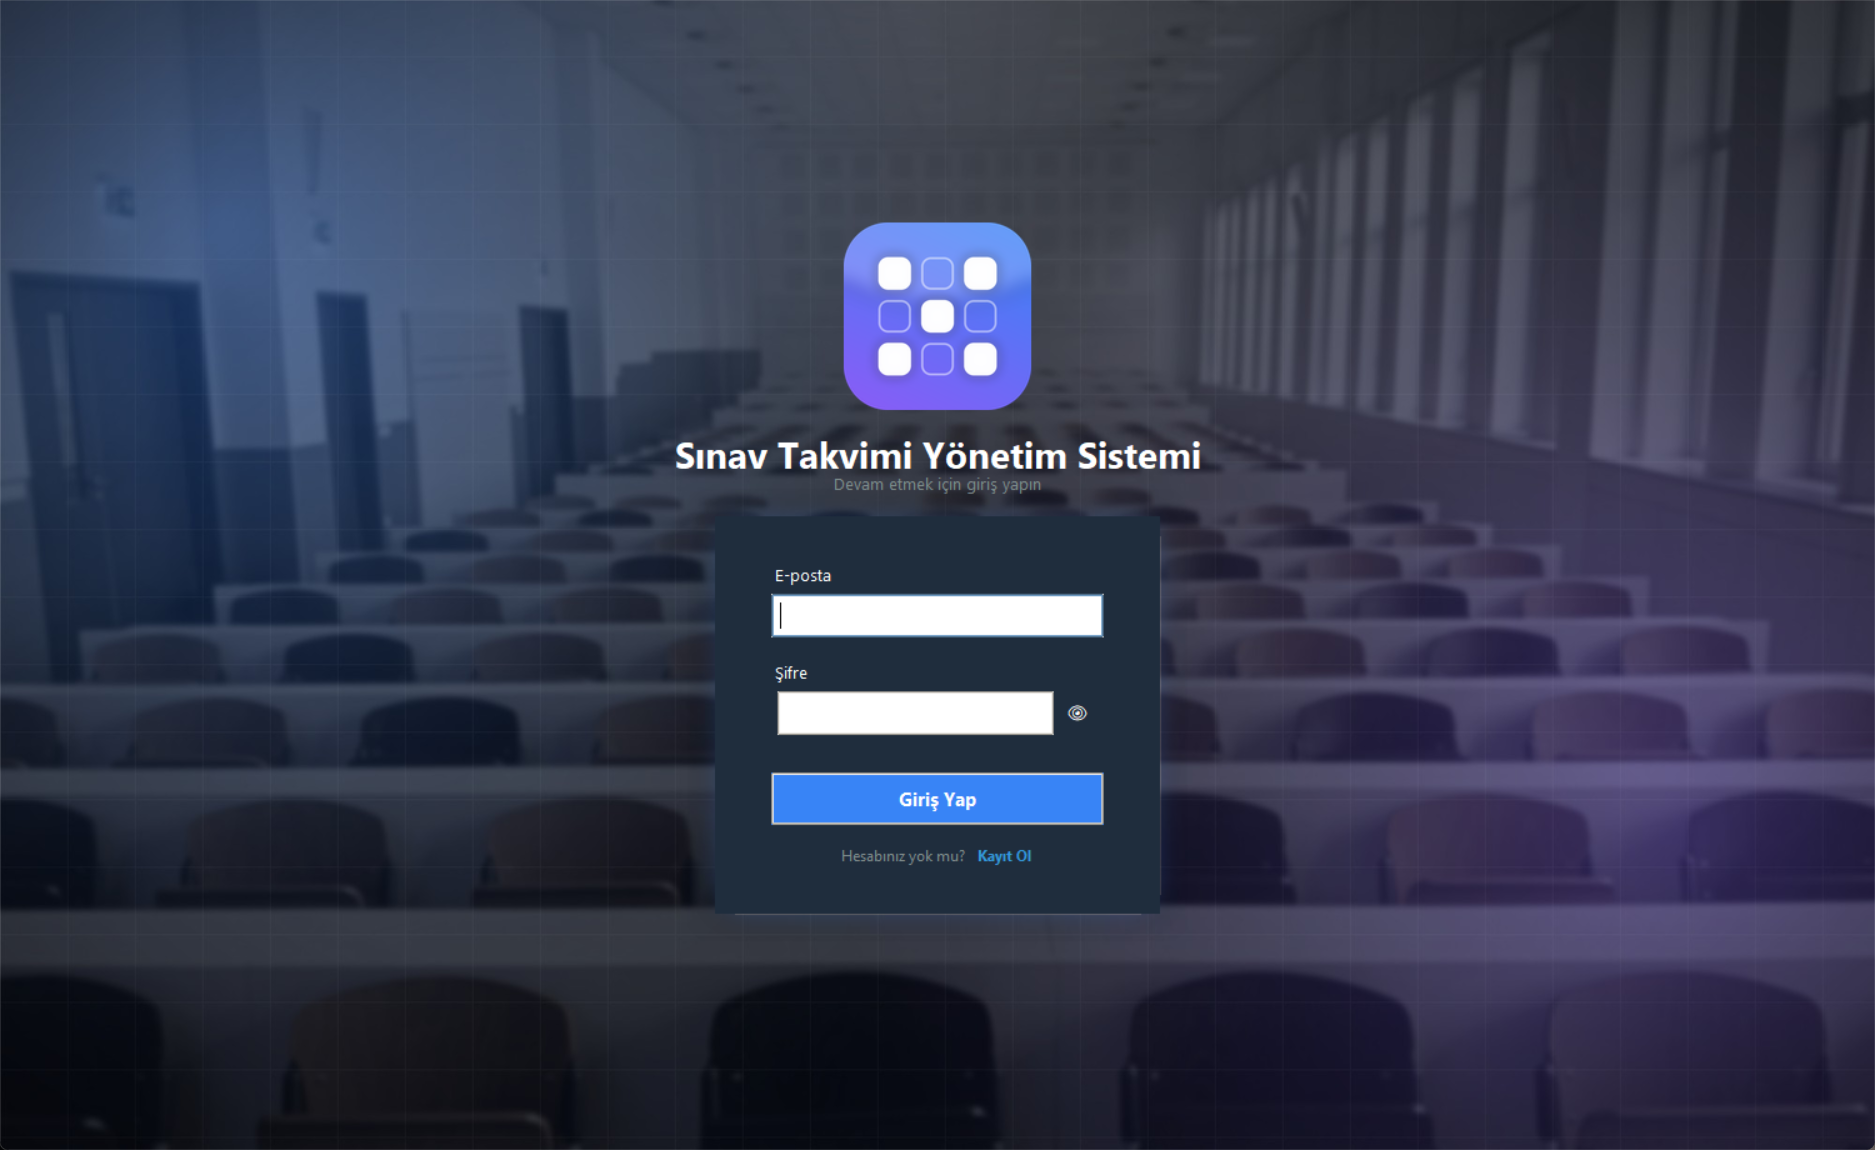
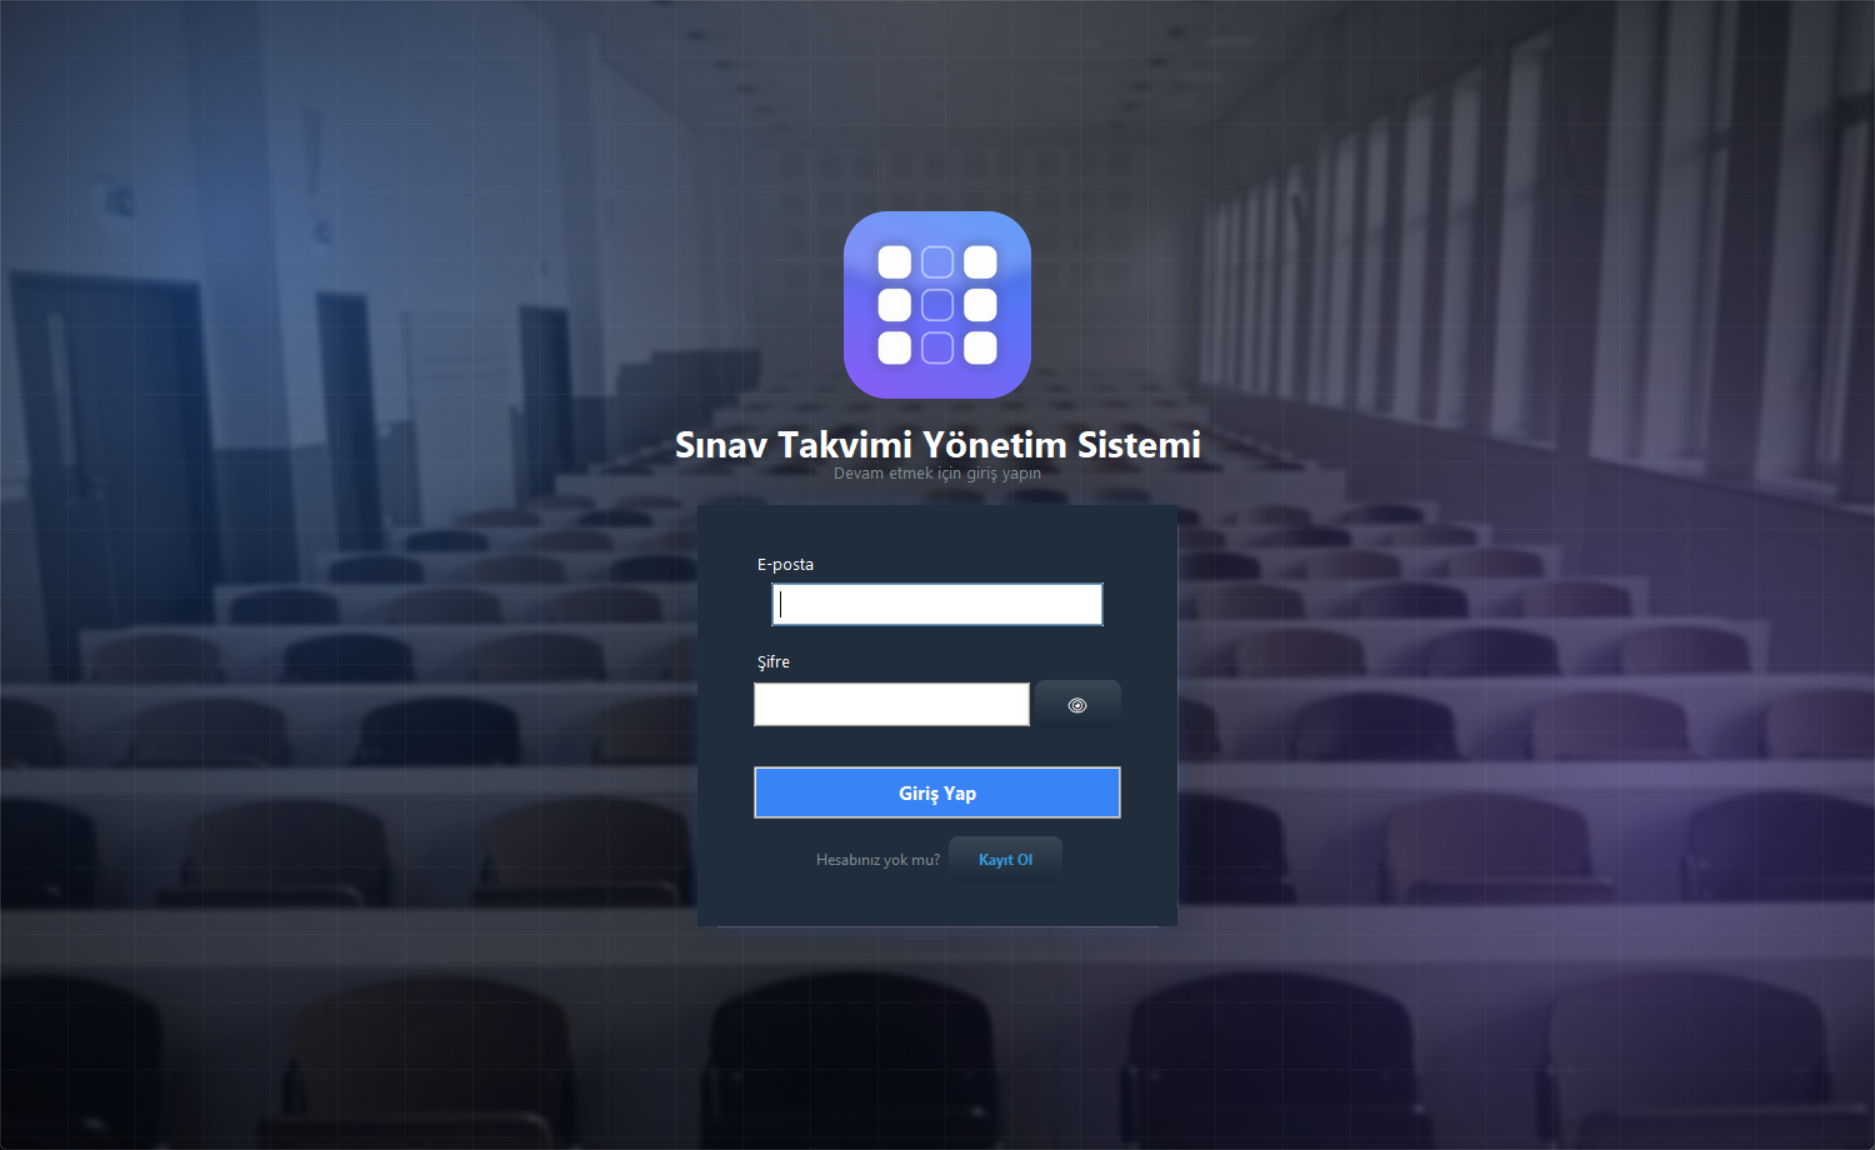
Yuvarlak butonlar, temali alt pencereler ve yenilenen ikon
Butonlar:
- Tkinter'in klasik 3B butonu yerine yuvarlak koseli, gradyanli, hover ve
  basili durumu olan buton; govde PIL ile ciziliyor, metin Tk metin ogesiyle
- tk.Button global olarak degistirildi, boylece ~30 ekranin tamami tek
  dokunusla yenilendi; text/state/bg/fg/command, invoke/cget/config destekli

Alt pencereler:
- Her Toplevel artik en altta dekoratif bir katman aciyor; pencerelerin
  arkasi bombos gri kalmiyor
- Widget'larin oturdugu ust bolge duz kaliyor, gecis asagida basliyor ki
  widget'lar arka plandan kutu gibi ayrismasin

Ikon:
- Rastgele duran dama deseni yerine anti-kopya duzenini anlatan sutun
  deseni: iki dolu sutun, ortada bos sutun

Duzeltmeler:
- Canvas.lower() canvas ogesini alcaltiyor, widget'i degil; dekor katmani
  bu yuzden ilk diyalog acilisinda TclError firlatiyordu
- numpy dogrudan kullanildigi halde requirements.txt'te yoktu

diff --git a/sinav_oturma_plani/styles.py b/sinav_oturma_plani/styles.py
@@ -3,9 +3,11 @@ import hashlib
 import os
 import tkinter as tk
 
+import tkinter.font as tkfont
+
 import bcrypt
 import numpy as np
-from PIL import Image, ImageDraw, ImageFilter
+from PIL import Image, ImageDraw, ImageFilter, ImageTk
 
 _PROJECT_ROOT = os.path.dirname(os.path.dirname(os.path.abspath(__file__)))
 _ASSETS_DIR = os.path.join(_PROJECT_ROOT, 'assets')
@@ -109,38 +111,206 @@ def apply_widget_defaults(root):
     root.option_add('*Listbox.background', COLORS['bg_card'])
 
 
-class _HoverButton(tk.Button):
-    """Üzerine gelindiğinde arka planı açılan/koyulaşan tk.Button."""
+def _shade(rgb, amount):
+    """amount > 0 açar, < 0 koyulaştırır."""
+    if amount >= 0:
+        return tuple(int(c + (255 - c) * amount) for c in rgb)
+    return tuple(max(0, int(c * (1 + amount))) for c in rgb)
+
+
+def _pill(width, height, rgb, radius, supersample=3):
+    """Üstten alta hafif gradyanlı, yuvarlak köşeli buton gövdesi."""
+    big = (width * supersample, height * supersample)
+    gradient = _diagonal_gradient(big[0], big[1], _shade(rgb, 0.12), _shade(rgb, -0.08),
+                                   angle_deg=90)
+
+    mask = Image.new('L', big, 0)
+    ImageDraw.Draw(mask).rounded_rectangle([0, 0, big[0] - 1, big[1] - 1],
+                                            radius=radius * supersample, fill=255)
+
+    img = Image.new('RGBA', big, (0, 0, 0, 0))
+    img.paste(gradient, (0, 0), mask)
+    return img.resize((width, height), Image.LANCZOS)
+
+
+class _RoundedButton(tk.Canvas):
+    """tk.Button yerine geçen, yuvarlak köşeli modern buton.
+
+    Tkinter'ın klasik butonu köşe yarıçapını ve düz tasarımı desteklemediği
+    için gövde PIL ile çizilip Canvas'a görsel olarak yerleştirilir; metin
+    Tk'nin kendi metin öğesiyle yazılır (font kalitesi bozulmasın diye).
+
+    tk.Button ile aynı şekilde kullanılabilsin diye text/command/bg/fg/font/
+    state seçeneklerini, `invoke()`, `cget()` ve `config()` çağrılarını
+    destekler. relief, bd, activebackground gibi klasik görünüm seçenekleri
+    sessizce yok sayılır."""
+
+    RADIUS = 8
+    _SWALLOWED = ('relief', 'bd', 'borderwidth', 'activebackground', 'activeforeground',
+                   'highlightthickness', 'highlightbackground', 'anchor', 'justify',
+                   'overrelief', 'default', 'takefocus')
+
+    def __init__(self, master=None, text='', command=None, bg=None, fg=None,
+                 font=None, padx=None, pady=None, width=None, height=None,
+                 state='normal', cursor='hand2', **_legacy):
+        self._text = text
+        self._command = command
+        self._fill = bg or COLORS['accent']
+        self._fg = fg or COLORS['text_light']
+        self._font = font or ('Segoe UI', 10, 'bold')
+        self._padx = 24 if padx is None else max(int(padx), 14)
+        self._pady = 11 if pady is None else max(int(pady), 8)
+        self._min_chars = width
+        self._min_lines = height
+        self._state = state
+        self._photo = None
+
+        try:
+            parent_bg = master.cget('background')
+        except Exception:
+            parent_bg = COLORS['bg_light']
+
+        box = self._measure()
+        super().__init__(master, width=box[0], height=box[1], highlightthickness=0,
+                          bd=0, bg=parent_bg, cursor='' if state == 'disabled' else cursor)
+
+        self._body = self.create_image(0, 0, anchor='nw')
+        self._label = self.create_text(box[0] // 2, box[1] // 2, text=self._text,
+                                        fill=self._fg, font=self._font)
+        self._paint()
+
+        self.bind('<Enter>', lambda _e: self._paint(hover=True))
+        self.bind('<Leave>', lambda _e: self._paint())
+        self.bind('<Button-1>', lambda _e: self._paint(press=True))
+        self.bind('<ButtonRelease-1>', self._on_release)
+
+    def _measure(self):
+        font = tkfont.Font(font=self._font)
+        line = font.metrics('linespace')
+        width = font.measure(self._text) + self._padx * 2
+        height = line + self._pady * 2
+        if self._min_chars:
+            width = max(width, int(self._min_chars) * font.measure('0') + self._padx * 2)
+        if self._min_lines:
+            height = max(height, int(self._min_lines) * line + self._pady)
+        return int(width), int(height)
+
+    def _rgb(self, color):
+        if isinstance(color, str) and color.startswith('#') and len(color) == 7:
+            return hex_to_rgb(color)
+        try:
+            return tuple(c >> 8 for c in self.winfo_rgb(color))
+        except tk.TclError:
+            return hex_to_rgb(COLORS['accent'])
+
+    def _paint(self, hover=False, press=False):
+        width, height = int(self['width']), int(self['height'])
+        rgb = self._rgb(self._fill)
+
+        if self._state == 'disabled':
+            rgb = tuple((c + b) // 2 for c, b in zip(rgb, hex_to_rgb(COLORS['bg_light'])))
+        elif press:
+            rgb = _shade(rgb, -0.16)
+        elif hover:
+            rgb = _shade(rgb, 0.14)
+
+        self._photo = ImageTk.PhotoImage(_pill(width, height, rgb, self.RADIUS))
+        self.itemconfig(self._body, image=self._photo)
+        self.tag_raise(self._label)
+
+    def _on_release(self, event):
+        self._paint(hover=True)
+        if 0 <= event.x < int(self['width']) and 0 <= event.y < int(self['height']):
+            self.invoke()
+
+    def invoke(self):
+        if self._state != 'disabled' and self._command:
+            return self._command()
+
+    def cget(self, key):
+        return {'text': self._text, 'state': self._state, 'command': self._command,
+                 'bg': self._fill, 'background': self._fill,
+                 'fg': self._fg, 'foreground': self._fg}.get(key) \
+            if key in ('text', 'state', 'command', 'bg', 'background', 'fg', 'foreground') \
+            else super().cget(key)
+
+    __getitem__ = cget
+
+    def configure(self, cnf=None, **kw):
+        resize = redraw = False
+
+        if 'text' in kw:
+            self._text = kw.pop('text')
+            resize = True
+        if 'state' in kw:
+            self._state = kw.pop('state')
+            redraw = True
+        if 'command' in kw:
+            self._command = kw.pop('command')
+        for key in ('bg', 'background'):
+            if key in kw:
+                self._fill = kw.pop(key)
+                redraw = True
+        for key in ('fg', 'foreground'):
+            if key in kw:
+                self._fg = kw.pop(key)
+                redraw = True
+        for key in self._SWALLOWED + ('padx', 'pady', 'font', 'image'):
+            kw.pop(key, None)
+
+        if resize:
+            width, height = self._measure()
+            super().configure(width=width, height=height)
+            self.coords(self._label, width // 2, height // 2)
+            self.itemconfig(self._label, text=self._text)
+        if resize or redraw:
+            self.itemconfig(self._label, fill=self._fg)
+            self._paint()
+        if cnf is not None or kw:
+            return super().configure(cnf, **kw)
+
+    config = configure
+
+
+tk.Button = _RoundedButton
+
+_WINDOW_BACKGROUND = None
+
+
+def set_window_background(source):
+    """Alt pencerelerin dekoratif arka planını belirler (görsel ya da üreteç)."""
+    global _WINDOW_BACKGROUND
+    _WINDOW_BACKGROUND = source
+
+
+class _ThemedToplevel(tk.Toplevel):
+    """Arka planı boş kalmayan Toplevel.
+
+    Pencerenin en altına, içeriğin arkasında kalan dekoratif bir katman
+    yerleştirir. Katman `place` ile konduğu için `pack`/`grid` ile eklenen
+    içeriğin yerleşimini etkilemez; içerik bittiği yerden aşağısı düz gri
+    yerine desenli görünür."""
 
     def __init__(self, master=None, **kwargs):
+        kwargs.setdefault('background', COLORS['bg_light'])
         super().__init__(master, **kwargs)
-        self.bind('<Enter>', self._on_enter, add='+')
-        self.bind('<Leave>', self._on_leave, add='+')
 
-    def _on_enter(self, event):
-        if str(self['state']) == 'disabled':
+        if _WINDOW_BACKGROUND is None:
             return
-        self._normal_bg = self.cget('background')
-        self.config(background=self._hover_color(self._normal_bg), cursor='hand2')
 
-    def _on_leave(self, event):
-        if hasattr(self, '_normal_bg'):
-            self.config(background=self._normal_bg, cursor='')
+        # Döngüsel içe aktarmayı önlemek için çağrı anında yükleniyor.
+        from .ui.background import ResponsiveBackground
 
-    def _hover_color(self, color):
-        try:
-            r, g, b = (c >> 8 for c in self.winfo_rgb(color))
-        except tk.TclError:
-            return color
-        luminance = 0.299 * r + 0.587 * g + 0.114 * b
-        if luminance > 140:
-            r, g, b = (max(0, int(c * 0.88)) for c in (r, g, b))
-        else:
-            r, g, b = (min(255, int(c + (255 - c) * 0.18)) for c in (r, g, b))
-        return f'#{r:02x}{g:02x}{b:02x}'
+        decoration = tk.Canvas(self, highlightthickness=0, bd=0, bg=COLORS['bg_light'])
+        decoration.place(x=0, y=0, relwidth=1, relheight=1)
+        # Canvas.lower() canvas öğesini alçaltır; widget'ın kendisini en alta
+        # almak için Misc.lower çağrılmalı.
+        tk.Misc.lower(decoration)
+        ResponsiveBackground(decoration, _WINDOW_BACKGROUND)
+        self._decoration = decoration
 
 
-tk.Button = _HoverButton
+tk.Toplevel = _ThemedToplevel
 
 
 GRADIENT_START = (56, 132, 246)
@@ -197,7 +367,8 @@ def generate_app_icon(size=512):
     gap = int(s * 0.055)
     cell = (s - 2 * grid_pad - (cols - 1) * gap) / cols
     seat_radius = cell * 0.30
-    dolu = {(0, 0), (0, 2), (1, 1), (2, 0), (2, 2)}
+    # Anti-kopya düzeni: bir sütun dolu, bir sütun boş.
+    dolu = {(r, c) for r in range(rows) for c in (0, 2)}
 
     glow = Image.new('RGBA', (s, s), (0, 0, 0, 0))
     glow_draw = ImageDraw.Draw(glow)
@@ -271,13 +442,15 @@ def _blend(arr, mask, color):
     return arr
 
 
-def generate_panel_background(width, height):
-    """Ana panelde içeriğin altında kalan boşluğu dolduran dekoratif katman:
-    aşağı doğru koyulaşan hafif renk geçişi ve sağ alt köşede sınav oturma
-    düzenini çağrıştıran silik koltuk ızgarası.
+def generate_panel_background(width, height, fade_power=1.6, strength=0.30):
+    """İçeriğin altında kalan boşluğu dolduran dekoratif katman: aşağı doğru
+    koyulaşan hafif renk geçişi ve sağ alt köşede sınav oturma düzenini
+    çağrıştıran silik koltuk ızgarası.
 
     En üst satır COLORS['bg_light'] ile birebir aynı renktedir; böylece
-    üstündeki içerik çerçevesiyle arasında görünür bir geçiş oluşmaz."""
+    üstündeki içerikle arasında görünür bir geçiş oluşmaz. `fade_power`
+    büyüdükçe üst bölge daha uzun süre düz kalır — üstüne widget yerleşen
+    pencerelerde bu, widget'ların arka plandan ayrışmasını önler."""
     base = tuple(int(COLORS['bg_light'][i:i + 2], 16) for i in (1, 3, 5))
     primary = tuple(int(COLORS['primary'][i:i + 2], 16) for i in (1, 3, 5))
     success = tuple(int(COLORS['success'][i:i + 2], 16) for i in (1, 3, 5))
@@ -286,11 +459,12 @@ def generate_panel_background(width, height):
     arr[:, :] = base
 
     yy, xx = np.ogrid[:height, :width]
-    asagi = (yy / max(height - 1, 1)) ** 1.6
+    asagi = (yy / max(height - 1, 1)) ** fade_power
     saga = np.clip((xx / max(width - 1, 1) - 0.15) / 0.85, 0, 1) ** 1.2
 
-    arr = _blend(arr, asagi * (0.30 + 0.70 * saga) * 0.30, primary)
-    arr = _blend(arr, asagi * np.clip(1 - xx / (width * 0.45), 0, 1) ** 1.5 * 0.12, success)
+    arr = _blend(arr, asagi * (0.30 + 0.70 * saga) * strength, primary)
+    arr = _blend(arr, asagi * np.clip(1 - xx / (width * 0.45), 0, 1) ** 1.5 * strength * 0.4,
+                  success)
     img = Image.fromarray(np.clip(arr, 0, 255).astype(np.uint8), mode='RGB')
 
     cols, rows = 8, 4
@@ -332,6 +506,15 @@ def fade_top_to_base(img, fade_ratio=0.55):
     t = np.clip(yy / max(height * fade_ratio, 1.0), 0.0, 1.0) ** 1.3
     arr = base * (1 - t) + arr * t
     return Image.fromarray(np.clip(arr, 0, 255).astype(np.uint8), mode='RGB')
+
+
+def generate_window_background(width, height):
+    """Alt pencereler için, üst bölgesi daha uzun süre düz kalan dekor katmanı.
+
+    Bu pencerelerde widget'lar doğrudan pencereye yerleştiği için geçişin
+    yukarıda başlaması, widget'ların arka plandan kutu gibi ayrışmasına
+    yol açıyordu."""
+    return generate_panel_background(width, height, fade_power=3.4, strength=0.26)
 
 
 def get_panel_background():

diff --git a/sinav_oturma_plani/app.py b/sinav_oturma_plani/app.py
@@ -7,8 +7,9 @@ from datetime import datetime
 from tkinter import ttk, messagebox
 from PIL import Image, ImageTk
 
-from .styles import (apply_widget_defaults, configure_styles, get_app_icon,
-                      get_login_background, get_panel_background)
+from .styles import (apply_widget_defaults, configure_styles, generate_window_background,
+                      get_app_icon, get_login_background, get_panel_background,
+                      set_window_background)
 from .database import DatabaseManager
 from .ui.auth import AuthMixin
 from .ui.dashboard import DashboardMixin
@@ -41,6 +42,8 @@ class SinavTakvimiApp(AuthMixin, DashboardMixin, InstructorMixin, ClassroomMixin
         self.root.iconphoto(True, self.app_icon_img)
         self.login_bg_source = get_login_background()
         self.panel_bg_source = get_panel_background()
+        # Alt pencerelerde fotoğraf yerine daha sakin olan üretilen desen kullanılıyor.
+        set_window_background(generate_window_background)
 
         self.db = DatabaseManager()
         self.current_user = None

diff --git a/README.md b/README.md
@@ -10,6 +10,10 @@ Admin girişi sonrası ana panel — özet kartları, hızlı işlemler ve yakla
 
 ![Ana panel](ana-panel.png)
 
+Alt ekranlar da aynı temayı kullanır; yuvarlak köşeli butonlar ve boş kalmayan arka plan:
+
+![Bölüm seçme ekranı](alt-ekran.png)
+
 ## Mimari
 
 ```mermaid
@@ -24,6 +28,7 @@ flowchart LR
 
 - Rol tabanlı giriş (Admin / Bölüm Koordinatörü) ve kendi kendine kayıt olma
 - Pencere boyutuna uyum sağlayan görsel arka planlar (`assets/` klasörüne dosya koyarak değiştirilebilir)
+- Yuvarlak köşeli, hover/basılı durumu olan butonlar ve tüm pencerelerde ortak tema
 - Ana panelde özet istatistik kartları, hızlı işlem kısayolları ve yaklaşan sınav listesi
 - Bölüm, derslik ve ders yönetimi
 - Sınav programı oluşturma (öğrenci çakışmalarını otomatik olarak önlemeye çalışan yerleştirme algoritması)
@@ -72,14 +77,16 @@ Uygulama, tek bir dev dosya yerine sorumluluklarına göre ayrılmış bir paket
 ```
 main.py                        # Başlangıç noktası (python main.py)
 sinav_oturma_plani/
-    styles.py                  # Renk paleti, ttk stilleri, ikon üretimi, şifre hashleme
+    styles.py                  # Renk paleti, ttk stilleri, yuvarlak buton ve temalı
+                                # pencere widget'ları, ikon/arka plan üretimi, şifre hashleme
     database.py                # MongoDB bağlantısı, koleksiyon/index kurulumu, varsayılan admin
     cascades.py                 # Cascade delete/set-null yardımcıları (MongoDB'de FK yok)
     notifications.py           # SMTP e-posta gönderimi (sağlayıcıdan bağımsız)
     app.py                     # SinavTakvimiApp: tüm ekran mixin'lerini + arka plan görev
                                 # (threading/ilerleme çubuğu) yardımcısını birleştirir
     ui/
-        auth.py                 # Giriş, kullanıcı ekleme, bölüm seçimi
+        background.py            # Pencere boyutuyla ölçeklenen arka plan yardımcısı
+        auth.py                 # Giriş, kayıt, kullanıcı ekleme, bölüm seçimi
         dashboard.py             # Ana menü, özet istatistik kartları, aktivite kaydı ekranı
         instructors.py           # Öğretim görevlisi işlemleri
         classrooms.py            # Derslik işlemleri
